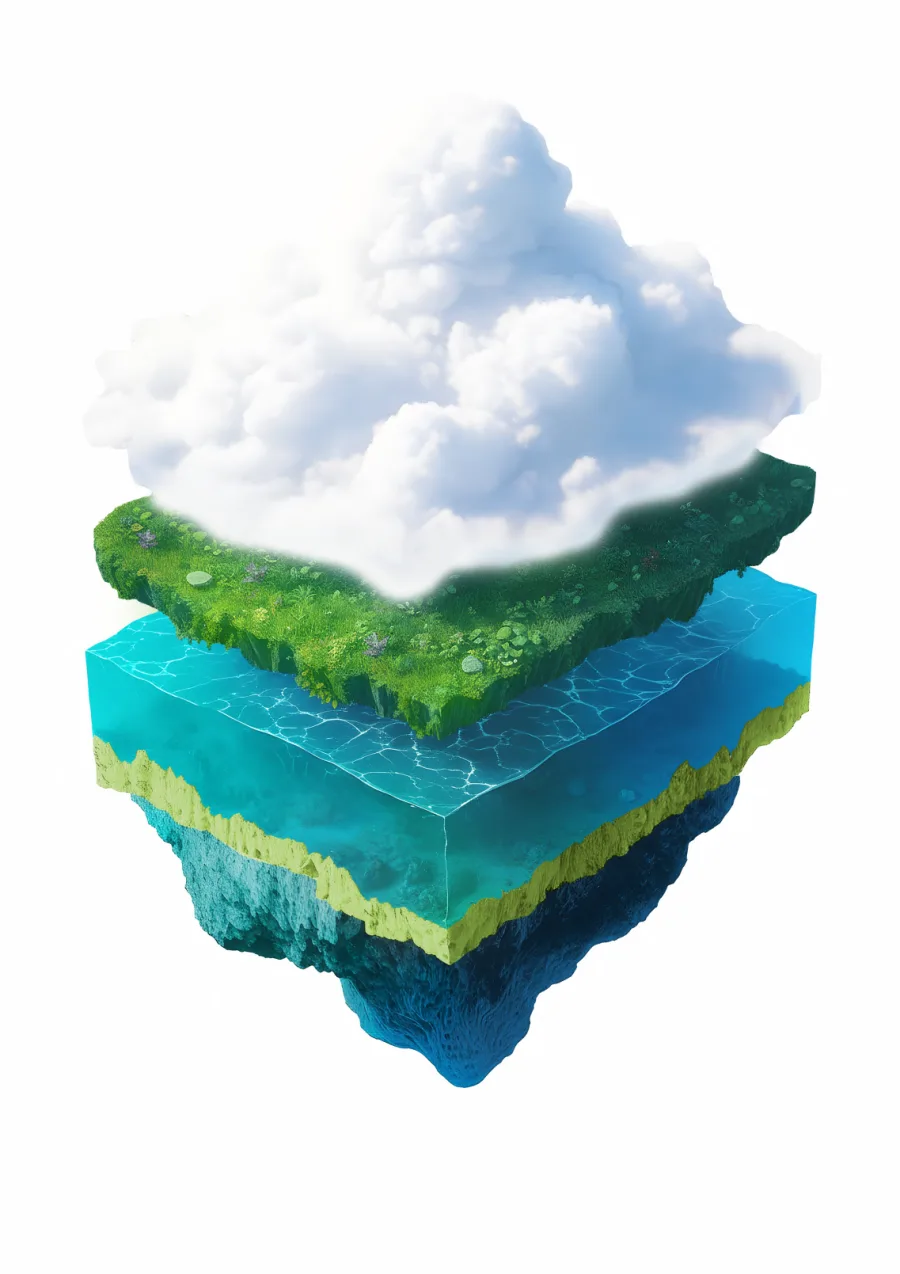
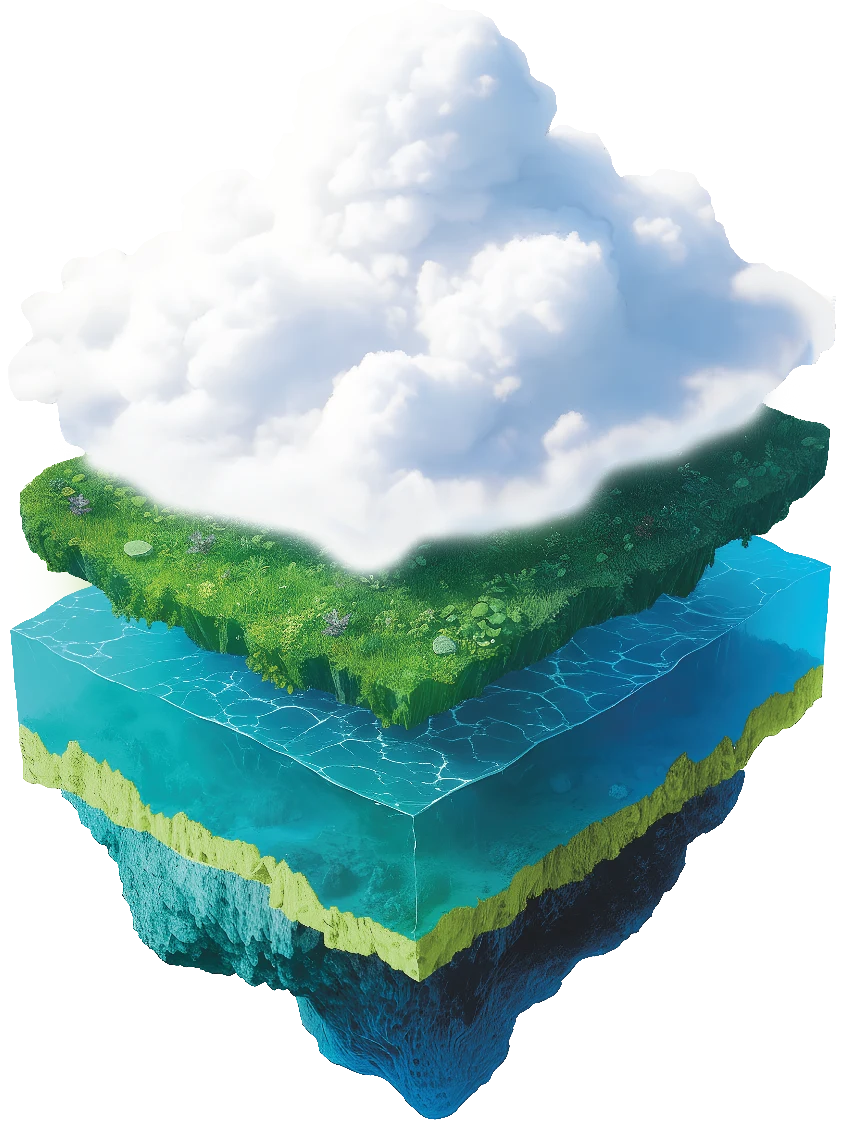
feat(design): лаконичный ESG-доннат + прозрачная иллюстрация услуг
- ESG donut: тонкое кольцо с треком вместо толстого градиентного с глянцем,
  флэт-цвета синхронизированы с легендой, ровные торцы, только draw-in
  анимация (убрано парение) — ближе к общему флэт-дизайнкоду
- services-illustration.webp: пересобрана с прозрачным фоном (вместо белого
  прямоугольника) — остров ложится прямо на фон секции «Услуги»

diff --git a/NIC Ecolog - Главная v2.dc.html b/NIC Ecolog - Главная v2.dc.html
@@ -74,6 +74,7 @@ input::placeholder,textarea::placeholder{color:#6E8385}
 @keyframes wordUp{from{opacity:0;transform:translateY(105%)}to{opacity:1;transform:translateY(0)}}
 @keyframes fadeIn{from{opacity:0}to{opacity:1}}
 @keyframes marquee{from{transform:translateX(0)}to{transform:translateX(-50%)}}
+@keyframes svcFloat{0%,100%{transform:translateY(0)}50%{transform:translateY(-12px)}}
 @keyframes drawPrint{from{stroke-dashoffset:100}to{stroke-dashoffset:0}}
 [data-anim="on"] [data-rv]{opacity:0;transform:translateY(30px);transition:opacity 0.9s ease,transform 0.9s cubic-bezier(0.22,1,0.36,1)}
 [data-anim="on"] [data-rv].rv-on{opacity:1;transform:translateY(0)}
@@ -148,6 +149,7 @@ a:focus-visible,button:focus-visible,input:focus-visible,textarea:focus-visible,
 [data-skip]:focus{top:16px}
 @media (max-width:1060px){
   [data-svc-illustration]{display:none !important}
+  #uslugi [data-svc-head]{min-height:auto !important}
   [data-nav]{display:none !important}
   [data-head-phone]{display:none !important}
   [data-burger]{display:flex !important}
@@ -199,16 +201,13 @@ a:focus-visible,button:focus-visible,input:focus-visible,textarea:focus-visible,
   [data-anim="on"] [data-rv]{opacity:1;transform:none}
   [data-rail-tick],[data-rail-fill],[data-rail-label],[data-rail-shell]{transition:none !important}
 }
-/* ESG donut — плоский SVG: draw-in по появлению секции + мягкое парение */
-[data-esg-svg]{filter:drop-shadow(0 20px 38px rgba(0,0,0,0.32))}
+/* ESG donut — лаконичное тонкое кольцо (флэт-цвета из легенды), draw-in по появлению */
+[data-esg-svg]{filter:drop-shadow(0 10px 24px rgba(0,0,0,0.16))}
 [data-esg-svg] circle{transform-box:view-box;transform-origin:150px 150px}
-[data-esg-donut-wrap]{animation:esgFloat 6.5s ease-in-out infinite}
-@keyframes esgFloat{0%,100%{transform:translateY(0)}50%{transform:translateY(-9px)}}
 @keyframes esgDraw{from{stroke-dashoffset:var(--len)}to{stroke-dashoffset:0}}
 [data-anim="on"] [data-esg-svg] .seg{stroke-dashoffset:var(--len)}
-[data-rv].rv-on [data-esg-svg] .seg{animation:esgDraw 1.15s cubic-bezier(0.33,1,0.68,1) forwards;animation-delay:var(--d,0s)}
+[data-rv].rv-on [data-esg-svg] .seg{animation:esgDraw 1.2s cubic-bezier(0.33,1,0.68,1) forwards;animation-delay:var(--d,0s)}
 @media (prefers-reduced-motion:reduce){
-  [data-esg-donut-wrap]{animation:none}
   [data-anim="on"] [data-esg-svg] .seg{stroke-dashoffset:0}
   [data-rv].rv-on [data-esg-svg] .seg{animation:none}
 }
@@ -463,16 +462,17 @@ a:focus-visible,button:focus-visible,input:focus-visible,textarea:focus-visible,
     </section>
 
     <!-- УСЛУГИ -->
-    <section id="uslugi" data-screen-label="Услуги" data-sec="true" style="padding:130px 48px;background:#FFFFFF;scroll-margin-top:80px">
-      <div style="max-width:1280px;margin:0 auto">
-        <div data-two-col="true" style="display:grid;grid-template-columns:1fr 1fr;gap:48px;align-items:end;margin-bottom:72px">
-          <div>
+    <section id="uslugi" data-screen-label="Услуги" data-sec="true" style="position:relative;overflow:hidden;padding:130px 48px;background:#FFFFFF;scroll-margin-top:80px">
+      <div aria-hidden="true" style="position:absolute;inset:0;pointer-events:none;z-index:0">
+        <div style="position:absolute;top:-8%;left:-4%;width:min(680px,56vw);height:min(680px,56vw);border-radius:50%;background:radial-gradient(circle at 44% 44%,rgba(76,178,114,0.5) 0%,rgba(173,207,122,0.32) 38%,rgba(76,178,114,0) 70%);filter:blur(58px)"></div>
+      </div>
+      <img data-svc-illustration="true" src="./assets/services-illustration.webp" alt="" aria-hidden="true" style="position:absolute;z-index:0;top:64px;right:clamp(-80px,-4vw,-12px);width:clamp(320px,33vw,500px);height:auto;pointer-events:none;filter:drop-shadow(0 34px 62px rgba(11,92,96,0.2));animation:svcFloat 7.5s ease-in-out infinite">
+      <div style="position:relative;z-index:1;max-width:1280px;margin:0 auto">
+        <div data-svc-head="true" style="display:flex;align-items:center;min-height:clamp(300px,32vw,420px);margin-bottom:72px">
+          <div style="max-width:560px">
             <p data-rv="true" style="margin:0 0 18px;font-family:'Stolzl','Onest',sans-serif;font-size:12px;font-weight:500;letter-spacing:0.22em;color:#139EA1;text-transform:uppercase">Услуги</p>
             <h2 data-rv="true" style="margin:0;font-weight:300;font-size:clamp(34px,3.4vw,52px);line-height:1.12;letter-spacing:-0.01em;color:#13282B">Полный спектр экологического инжиниринга</h2>
-          </div>
-          <div style="display:flex;flex-direction:column;align-items:flex-end;gap:24px;justify-self:end">
-            <img data-svc-illustration="true" data-rv="true" src="./assets/services-illustration.webp" alt="" aria-hidden="true" style="display:block;width:100%;max-width:300px;height:auto">
-            <p data-rv="true" style="margin:0;font-size:17px;color:#3E5557;max-width:460px">От разового проекта до полного экологического сопровождения предприятия. Наведите на карточку, чтобы увидеть состав работ.</p>
+            <p data-rv="true" style="margin:26px 0 0;font-size:17px;color:#3E5557;max-width:460px">От разового проекта до полного экологического сопровождения предприятия. Наведите на карточку, чтобы увидеть состав работ.</p>
           </div>
         </div>
 
@@ -724,20 +724,14 @@ a:focus-visible,button:focus-visible,input:focus-visible,textarea:focus-visible,
           <div data-rv="true" style="display:flex;flex-direction:column;align-items:center;gap:36px">
             <div data-esg-donut-wrap="true" style="position:relative;width:300px;height:300px">
               <svg data-esg-svg="true" viewBox="0 0 300 300" width="300" height="300" aria-hidden="true" style="display:block;overflow:visible">
-                <defs>
-                  <linearGradient id="esg-g3" x1="0" y1="0" x2="0" y2="1"><stop offset="0" stop-color="#5AA2F2"></stop><stop offset="1" stop-color="#134F9E"></stop></linearGradient>
-                  <linearGradient id="esg-g2" x1="0" y1="0" x2="0" y2="1"><stop offset="0" stop-color="#63D6C8"></stop><stop offset="1" stop-color="#1A7D6F"></stop></linearGradient>
-                  <linearGradient id="esg-g1" x1="0" y1="0" x2="0" y2="1"><stop offset="0" stop-color="#C2E08F"></stop><stop offset="1" stop-color="#6BA83D"></stop></linearGradient>
-                </defs>
-                <circle cx="150" cy="150" r="96" fill="none" stroke="rgba(255,255,255,0.08)" stroke-width="36"></circle>
-                <circle class="seg" cx="150" cy="150" r="96" fill="none" stroke="url(#esg-g3)" stroke-width="36" style="--len:414.23;--d:0s;stroke-dasharray:414.23 603.186;transform:rotate(-90deg)"></circle>
-                <circle class="seg" cx="150" cy="150" r="96" fill="none" stroke="url(#esg-g2)" stroke-width="36" style="--len:100.57;--d:0.5s;stroke-dasharray:100.57 603.186;transform:rotate(162deg)"></circle>
-                <circle class="seg" cx="150" cy="150" r="96" fill="none" stroke="url(#esg-g1)" stroke-width="36" style="--len:64.38;--d:0.85s;stroke-dasharray:64.38 603.186;transform:rotate(226.8deg)"></circle>
-                <circle class="gloss" cx="150" cy="150" r="96" fill="none" stroke="rgba(255,255,255,0.5)" stroke-width="36" stroke-linecap="round" stroke-dasharray="18 603.186" style="transform:rotate(-108deg);filter:blur(3px);opacity:0.2"></circle>
+                <circle cx="150" cy="150" r="112" fill="none" stroke="rgba(255,255,255,0.09)" stroke-width="20"></circle>
+                <circle class="seg" cx="150" cy="150" r="112" fill="none" stroke="#7FB2DE" stroke-width="20" style="--len:484.6;--d:0s;stroke-dasharray:484.6 703.72;transform:rotate(-90deg)"></circle>
+                <circle class="seg" cx="150" cy="150" r="112" fill="none" stroke="#45C3BD" stroke-width="20" style="--len:118.67;--d:0.5s;stroke-dasharray:118.67 703.72;transform:rotate(162deg)"></circle>
+                <circle class="seg" cx="150" cy="150" r="112" fill="none" stroke="#ADCF7A" stroke-width="20" style="--len:76.45;--d:0.85s;stroke-dasharray:76.45 703.72;transform:rotate(226.8deg)"></circle>
               </svg>
               <div style="position:absolute;inset:0;display:flex;flex-direction:column;align-items:center;justify-content:center;text-align:center">
                 <span style="font-family:'Stolzl','Onest',sans-serif;font-size:11px;letter-spacing:0.2em;color:rgba(255,255,255,0.65)">ОХВАТ 3</span>
-                <span style="font-size:40px;font-weight:200;line-height:1.1">до 70%</span>
+                <span style="font-size:44px;font-weight:200;line-height:1.1">до 70%</span>
               </div>
             </div>
             <div style="display:flex;flex-direction:column;gap:12px;width:100%;max-width:340px">
